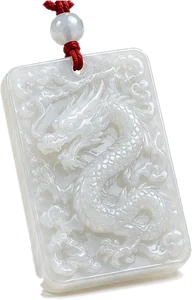
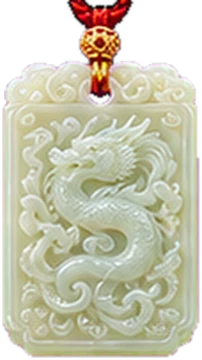
36 ürün görseli (6 elmas kalıplı dahil), seladon yeşim boyama düzeltmesi
Claude-Session: https://claude.ai/code/session_01GjZBG5YULkptHkh4fNdDtk

diff --git a/oyun/kaynak.html b/oyun/kaynak.html
@@ -557,10 +557,11 @@ function varyantSec(t){var o=urunTip(t),L=[0,0];VARYANT.forEach(function(V,i){if
 function urunGorsel(t,tur,g,kucuk,vr){var im=G['urun_'+t];if(!im)return null;var VR=vr?VARYANT[vr]:null,key=t+'|'+tur+'|'+Math.round(g*5)+(kucuk?'k':'')+(VR?'|'+vr:'');if(URUN_CACHE[key])return URUN_CACHE[key];
   var R=TUR[tur],ol=kucuk?Math.min(1,110/Math.max(im.width,im.height)):1,cv2=document.createElement('canvas');cv2.width=Math.max(1,Math.round(im.width*ol));cv2.height=Math.max(1,Math.round(im.height*ol));var x=cv2.getContext('2d',{willReadFrequently:true});x.drawImage(im,0,0,cv2.width,cv2.height);
   var d;try{d=x.getImageData(0,0,cv2.width,cv2.height);}catch(e){return null;}var p=d.data,W=cv2.width,H=cv2.height,tohum=tur*31+7;
-  for(var i=0;i<p.length;i+=4){if(p[i+3]<8)continue;var r=p[i],gg=p[i+1],b=p[i+2],mx=Math.max(r,gg,b),mn=Math.min(r,gg,b),sat=mx?(mx-mn)/mx:0;if(sat>0.2||mx<70){if(VR&&sat>0.2&&mx>=40)metalBoya(p,i,VR);continue;}
+  for(var i=0;i<p.length;i+=4){if(p[i+3]<8)continue;var r=p[i],gg=p[i+1],b=p[i+2],mx=Math.max(r,gg,b),mn=Math.min(r,gg,b),sat=mx?(mx-mn)/mx:0;var hu=renkTon(r,gg,b),yesimPx=sat<=0.2||(sat<0.42&&hu>=60&&hu<=210);  // açık yeşilimsi (seladon) yeşim de boyanır; altın ve kırmızı korunur
+    if(!yesimPx||mx<70){if(VR&&sat>0.2&&mx>=40)metalBoya(p,i,VR);continue;}
     var px=(i/4)%W,py=(i/4)/W|0,C1=R.c1,C2=R.c2;if(R.coklu){var nk=fbm(px/W*2.2+50,py/H*2.2+50,tohum,3);var pal=paletSec(R,nk);C1=pal[0];C2=pal[1];}
     var l=(r*0.3+gg*0.59+b*0.11)/255,dam=fbm(px/W*7,py/H*7,tohum+3,2)*0.25,gt=kis(g+(dam-0.12),0,1),
-      cr=lerp(C1[0],C2[0],gt),cg=lerp(C1[1],C2[1],gt),cb=lerp(C1[2],C2[2],gt),k=0.12+1.35*Math.pow(l,1.25),par=kis((l-0.88)/0.12,0,1)*0.7,w=1-kis((0.2-sat)/0.08,0,1);
+      cr=lerp(C1[0],C2[0],gt),cg=lerp(C1[1],C2[1],gt),cb=lerp(C1[2],C2[2],gt),k=0.12+1.2*Math.pow(l,1.35),par=kis((l-0.95)/0.05,0,1)*0.5,w=sat<=0.2?1-kis((0.2-sat)/0.08,0,1):0;
     var nr=lerp(cr*k,255,par),ng=lerp(cg*k,255,par),nb=lerp(cb*k,255,par);p[i]=lerp(nr,r,w);p[i+1]=lerp(ng,gg,w);p[i+2]=lerp(nb,b,w);}
   x.putImageData(d,0,0);URUN_CACHE[key]=cv2;return cv2;}
 function urunCiz(c,u,x,y,s){var gi=urunGorsel(u.t,u.tur,u.g,s<90,u.v);if(gi){var r=s*0.98/Math.max(gi.width,gi.height),w=gi.width*r,h=gi.height*r;c.drawImage(gi,x-w/2,y-h/2,w,h);return;}

diff --git a/www/index.html b/www/index.html
@@ -684,10 +684,11 @@ function varyantSec(t){var o=urunTip(t),L=[0,0];VARYANT.forEach(function(V,i){if
 function urunGorsel(t,tur,g,kucuk,vr){var im=G['urun_'+t];if(!im)return null;var VR=vr?VARYANT[vr]:null,key=t+'|'+tur+'|'+Math.round(g*5)+(kucuk?'k':'')+(VR?'|'+vr:'');if(URUN_CACHE[key])return URUN_CACHE[key];
   var R=TUR[tur],ol=kucuk?Math.min(1,110/Math.max(im.width,im.height)):1,cv2=document.createElement('canvas');cv2.width=Math.max(1,Math.round(im.width*ol));cv2.height=Math.max(1,Math.round(im.height*ol));var x=cv2.getContext('2d',{willReadFrequently:true});x.drawImage(im,0,0,cv2.width,cv2.height);
   var d;try{d=x.getImageData(0,0,cv2.width,cv2.height);}catch(e){return null;}var p=d.data,W=cv2.width,H=cv2.height,tohum=tur*31+7;
-  for(var i=0;i<p.length;i+=4){if(p[i+3]<8)continue;var r=p[i],gg=p[i+1],b=p[i+2],mx=Math.max(r,gg,b),mn=Math.min(r,gg,b),sat=mx?(mx-mn)/mx:0;if(sat>0.2||mx<70){if(VR&&sat>0.2&&mx>=40)metalBoya(p,i,VR);continue;}
+  for(var i=0;i<p.length;i+=4){if(p[i+3]<8)continue;var r=p[i],gg=p[i+1],b=p[i+2],mx=Math.max(r,gg,b),mn=Math.min(r,gg,b),sat=mx?(mx-mn)/mx:0;var hu=renkTon(r,gg,b),yesimPx=sat<=0.2||(sat<0.42&&hu>=60&&hu<=210);  // açık yeşilimsi (seladon) yeşim de boyanır; altın ve kırmızı korunur
+    if(!yesimPx||mx<70){if(VR&&sat>0.2&&mx>=40)metalBoya(p,i,VR);continue;}
     var px=(i/4)%W,py=(i/4)/W|0,C1=R.c1,C2=R.c2;if(R.coklu){var nk=fbm(px/W*2.2+50,py/H*2.2+50,tohum,3);var pal=paletSec(R,nk);C1=pal[0];C2=pal[1];}
     var l=(r*0.3+gg*0.59+b*0.11)/255,dam=fbm(px/W*7,py/H*7,tohum+3,2)*0.25,gt=kis(g+(dam-0.12),0,1),
-      cr=lerp(C1[0],C2[0],gt),cg=lerp(C1[1],C2[1],gt),cb=lerp(C1[2],C2[2],gt),k=0.12+1.35*Math.pow(l,1.25),par=kis((l-0.88)/0.12,0,1)*0.7,w=1-kis((0.2-sat)/0.08,0,1);
+      cr=lerp(C1[0],C2[0],gt),cg=lerp(C1[1],C2[1],gt),cb=lerp(C1[2],C2[2],gt),k=0.12+1.2*Math.pow(l,1.35),par=kis((l-0.95)/0.05,0,1)*0.5,w=sat<=0.2?1-kis((0.2-sat)/0.08,0,1):0;
     var nr=lerp(cr*k,255,par),ng=lerp(cg*k,255,par),nb=lerp(cb*k,255,par);p[i]=lerp(nr,r,w);p[i+1]=lerp(ng,gg,w);p[i+2]=lerp(nb,b,w);}
   x.putImageData(d,0,0);URUN_CACHE[key]=cv2;return cv2;}
 function urunCiz(c,u,x,y,s){var gi=urunGorsel(u.t,u.tur,u.g,s<90,u.v);if(gi){var r=s*0.98/Math.max(gi.width,gi.height),w=gi.width*r,h=gi.height*r;c.drawImage(gi,x-w/2,y-h/2,w,h);return;}

diff --git a/oyun/kes_toplu.py b/oyun/kes_toplu.py
@@ -7,13 +7,13 @@ from scipy import ndimage as nd
 SUT=SAT=6
 im=Image.open(sys.argv[1]).convert('RGB');A=np.asarray(im).astype(float);H,W,_=A.shape
 def magenta(a):r,g,b=a[...,0],a[...,1],a[...,2];return (r>140)&(b>140)&(g<0.65*np.minimum(r,b))
+def magentaGevsek(a):r,g,b=a[...,0],a[...,1],a[...,2];return (r>110)&(b>110)&(g<0.75*np.minimum(r,b))
 def kes(a,boy=360):
-  m=magenta(a);lab,_=nd.label(m);kenar=set(np.unique(np.concatenate([lab[0],lab[-1],lab[:,0],lab[:,-1]])))-{0}
-  obj=nd.binary_fill_holes(nd.binary_opening(~np.isin(lab,list(kenar)),iterations=1))|(~m&~np.isin(lab,list(kenar)))
-  obj&=~np.isin(lab,list(kenar))
+  m=magenta(a);m=nd.binary_dilation(m,iterations=1)&(magentaGevsek(a));obj=~m   # bütün pembe alanlar (iç boşluklar dahil) silinir
+  obj=nd.binary_opening(obj,iterations=1)
   lab2,n=nd.label(obj)
   if n==0:return None
-  sz=nd.sum(obj,lab2,range(1,n+1));obj=np.isin(lab2,[i+1 for i,v in enumerate(sz) if v>sz.max()*0.03])
+  sz=nd.sum(obj,lab2,range(1,n+1));obj=np.isin(lab2,[i+1 for i,v in enumerate(sz) if v>sz.max()*0.12])
   # keskin kenar: çok hafif yumuşatma, sonra eşik
   al=np.array(Image.fromarray((obj*255).astype(np.uint8)).filter(ImageFilter.GaussianBlur(0.6))).astype(float)
   b=a.copy();ort=(b[...,0]+b[...,2])/2;tasma=np.clip((ort-b[...,1]-35)/70,0,1)*(al<255)   # pembe sızıntıyı temizle
